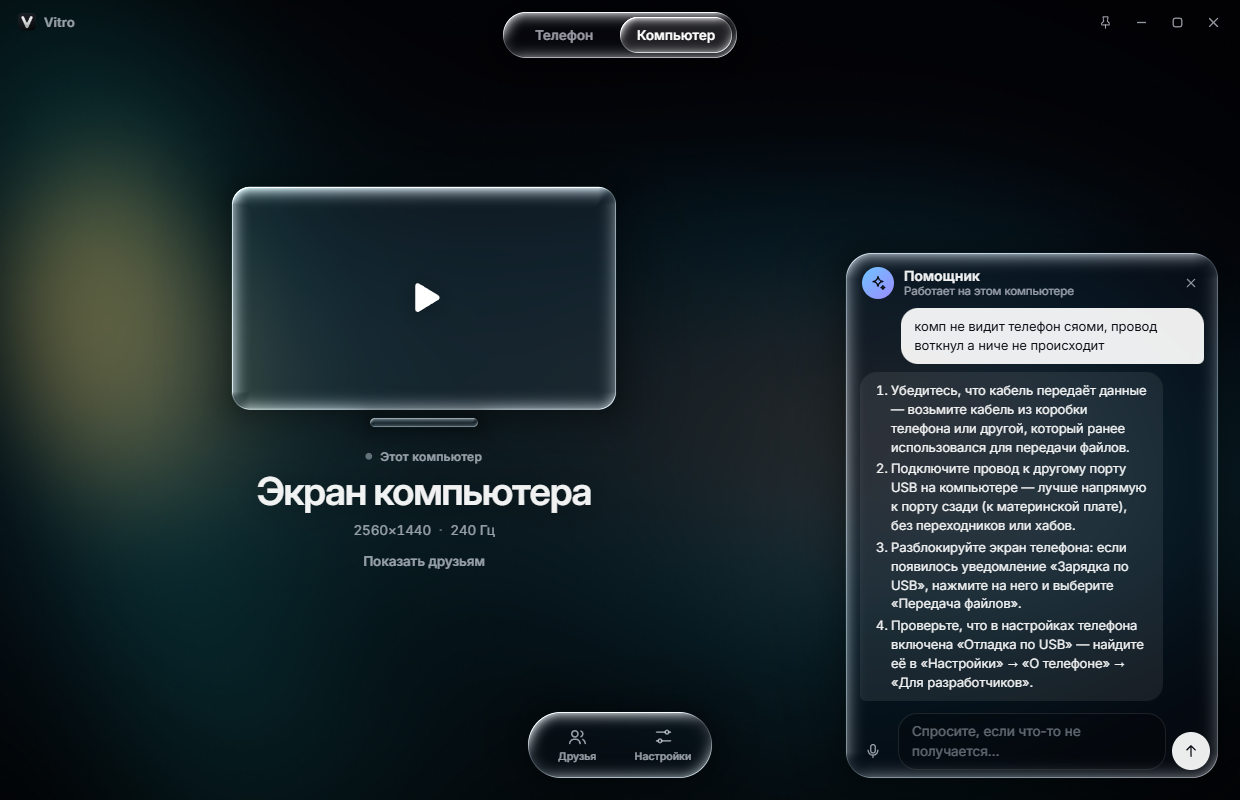
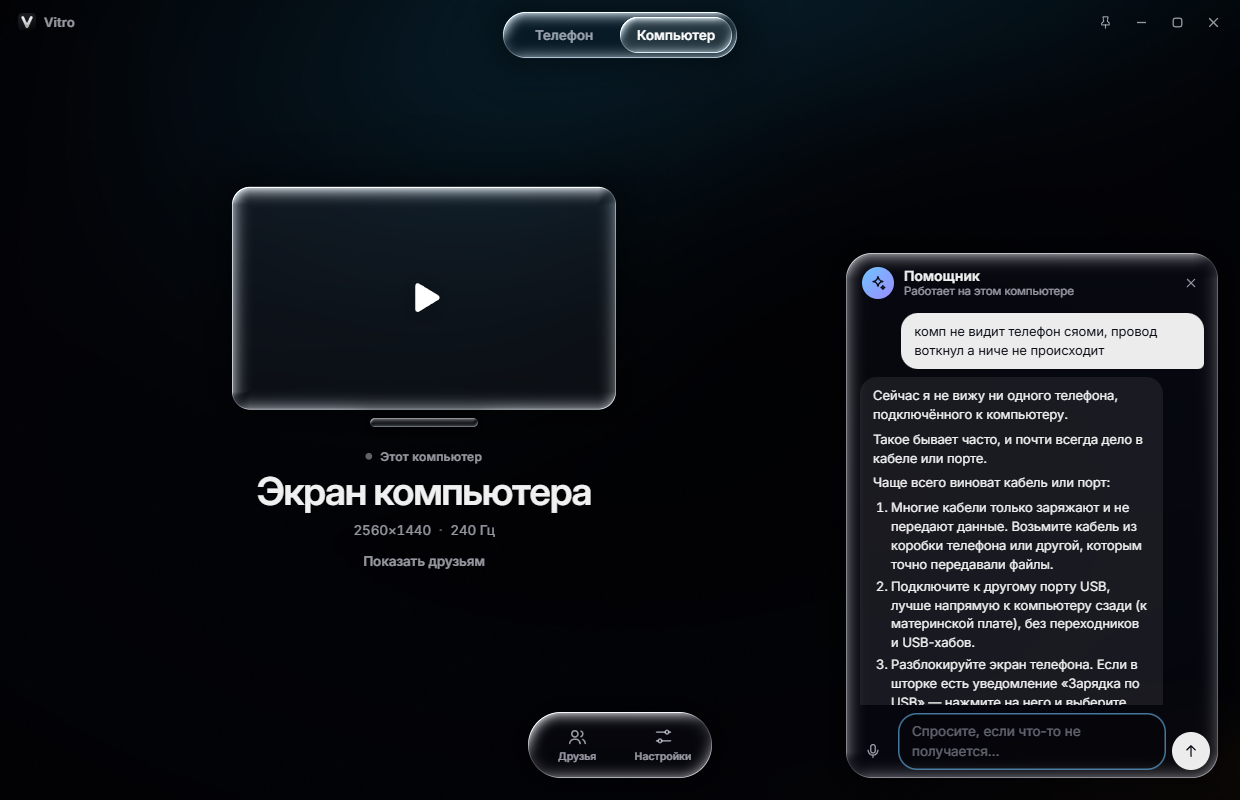
Vitro 0.6.1: project page
The helper section: a small neural model, answers only about phones and
Vitro, the whole app about 200 MB; a new screenshot of its answer.

diff --git a/docs/index.html b/docs/index.html
@@ -132,12 +132,13 @@
   <h2>Помощник, который понимает</h2>
   <div class="two">
     <div>
-      <p class="sub">Не получается подключить телефон? Напишите или скажите своими словами, как в поддержку. Помощник видит, какой телефон подключён и на каком он шаге, и объясняет именно для вашей модели.</p>
+      <p class="sub">Не получается подключить телефон? Напишите или скажите своими словами, как в поддержку, хоть с ошибками. Небольшая нейросеть понимает вопрос, а помощник видит, какой телефон подключён и на каком он шаге, и объясняет именно для вашей модели.</p>
       <ul>
         <li><b>Любые марки.</b> Samsung, Xiaomi, Redmi, POCO, Huawei, Honor, OPPO, realme, OnePlus, Vivo, Pixel, Nothing, Tecno, Infinix и другие.</li>
         <li><b>Частые и редкие ошибки.</b> Кабель только для зарядки, нет драйвера, не появляется «Разрешить», мешают другие программы, нет звука, не работает мышь.</li>
         <li><b>Голосом.</b> Нажмите микрофон, скажите и отправьте.</li>
-        <li><b>Без интернета.</b> Модель внутри установщика и работает на вашем компьютере. Vitro сама выбирает, что быстрее: видеокарта или процессор. Память занимается только на время вопроса.</li>
+        <li><b>Только по делу.</b> Телефон, подключение, показ, звук и связь. Уравнения, стихи и «забудь инструкции» — вежливый отказ.</li>
+        <li><b>Без интернета.</b> Модель внутри установщика (весь Vitro — около 200 МБ) и работает на вашем компьютере, на процессоре. Память занимается только на время вопроса.</li>
       </ul>
     </div>
     <img src="assist.png" alt="Помощник отвечает на вопрос о подключении телефона" />
